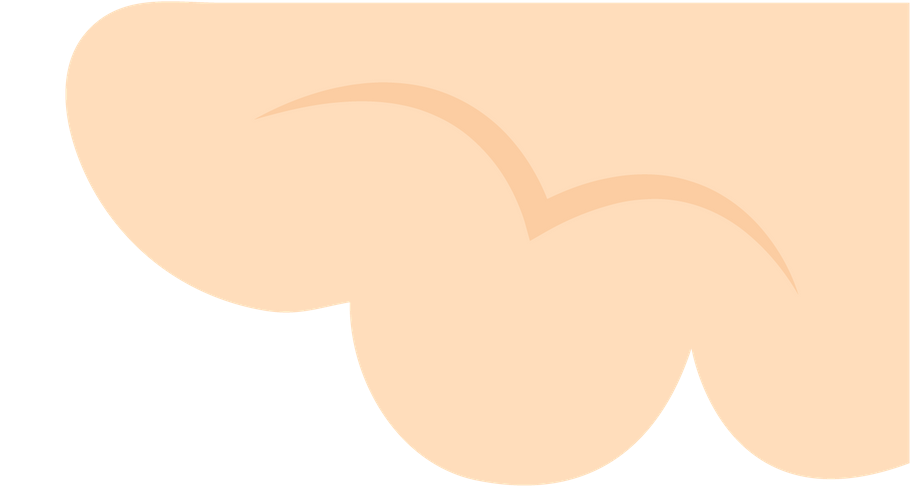
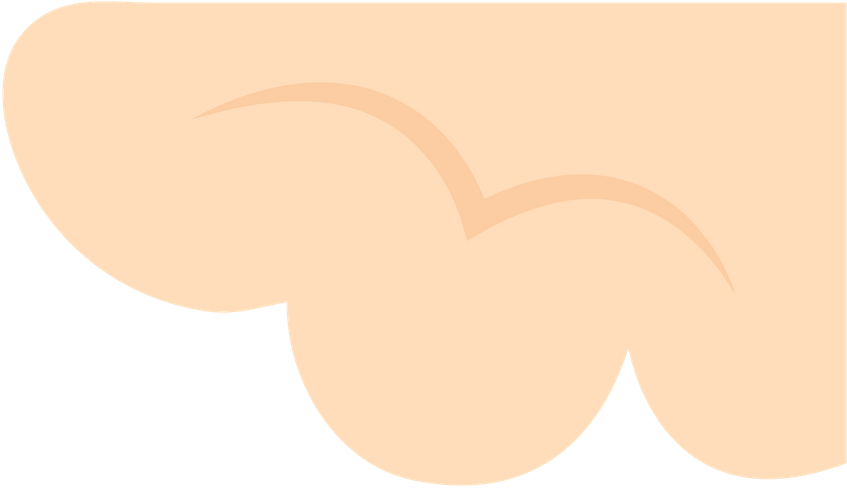
update

diff --git a/index.php b/index.php
@@ -5,7 +5,7 @@
     <div class="uk-container">
         <div uk-grid>
             <div class="uk-width-2-5@m">
-                <img src="images/logo-20220325111935.png" alt="">
+                <img class="animate__animated" uk-scrollspy="cls: animate__flipInY; repeat: true" src="images/logo-20220325111935.png" alt="">
             </div>
         </div>
     </div>
@@ -106,7 +106,7 @@
 
 <div class="uk-position-relative home__block3">
     <div class="home__block3__bg uk-background-contain uk-background-norepeat uk-background-center-center uk-cover-container uk-position-top-right" data-src="images/artboard-42x-20210416035838-1.png" uk-img>
-        <canvas width="910" height="500"></canvas>
+        <canvas width="847" height="488"></canvas>
     </div>
     <div class="uk-section">
         <div class="uk-container uk-text-center">

diff --git a/template-parts/layouts/header.php b/template-parts/layouts/header.php
@@ -7,6 +7,7 @@
     <meta name="viewport" content="width=device-width, initial-scale=1.0, maximum-scale=1">
     <!--CSS-->
     <link rel="stylesheet" href="https://stackpath.bootstrapcdn.com/font-awesome/4.7.0/css/font-awesome.min.css">
+    <link rel="stylesheet" href="https://cdnjs.cloudflare.com/ajax/libs/animate.css/4.1.1/animate.min.css"/>
     <!-- UIkit CSS -->
     <link rel="stylesheet" href="https://cdn.jsdelivr.net/npm/uikit@3.14.1/dist/css/uikit.min.css" />
     <link rel="stylesheet" href="style.css?v=<?php echo(time()) ?>">
